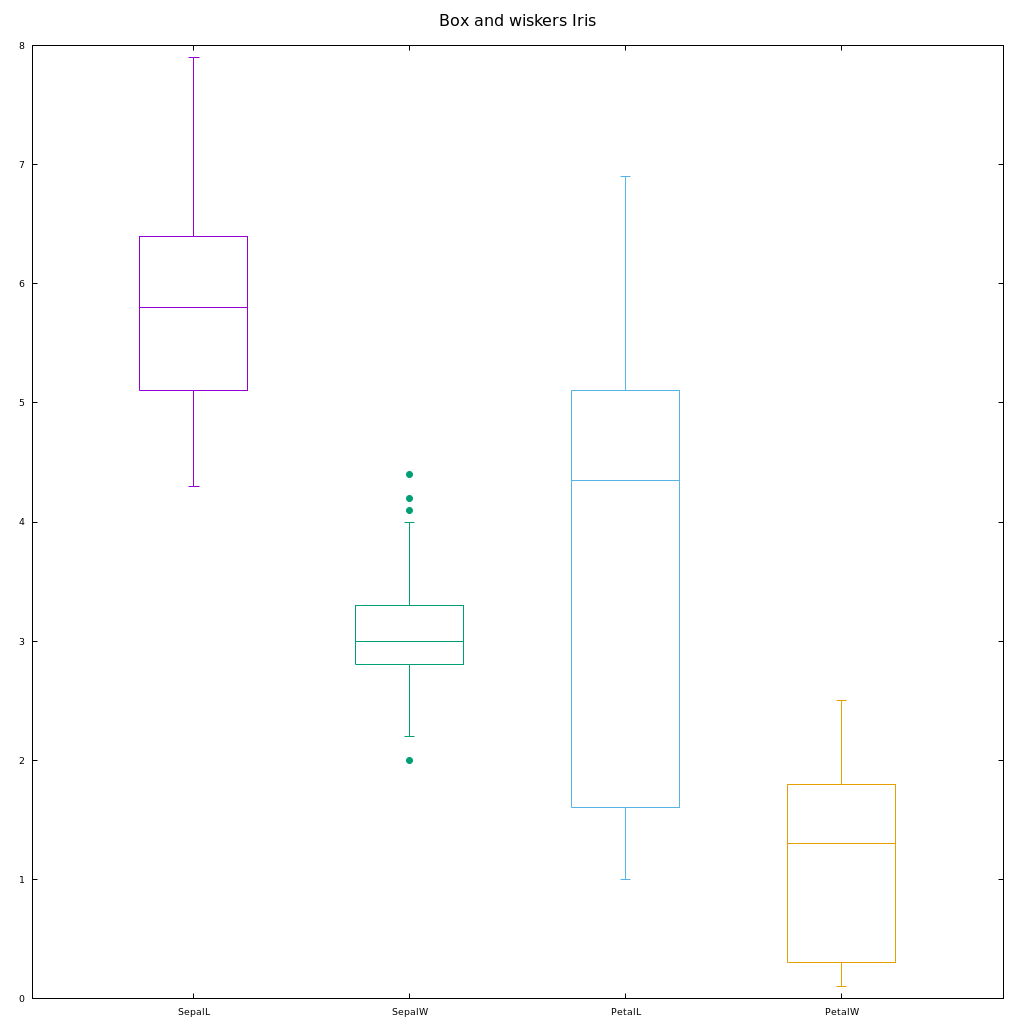
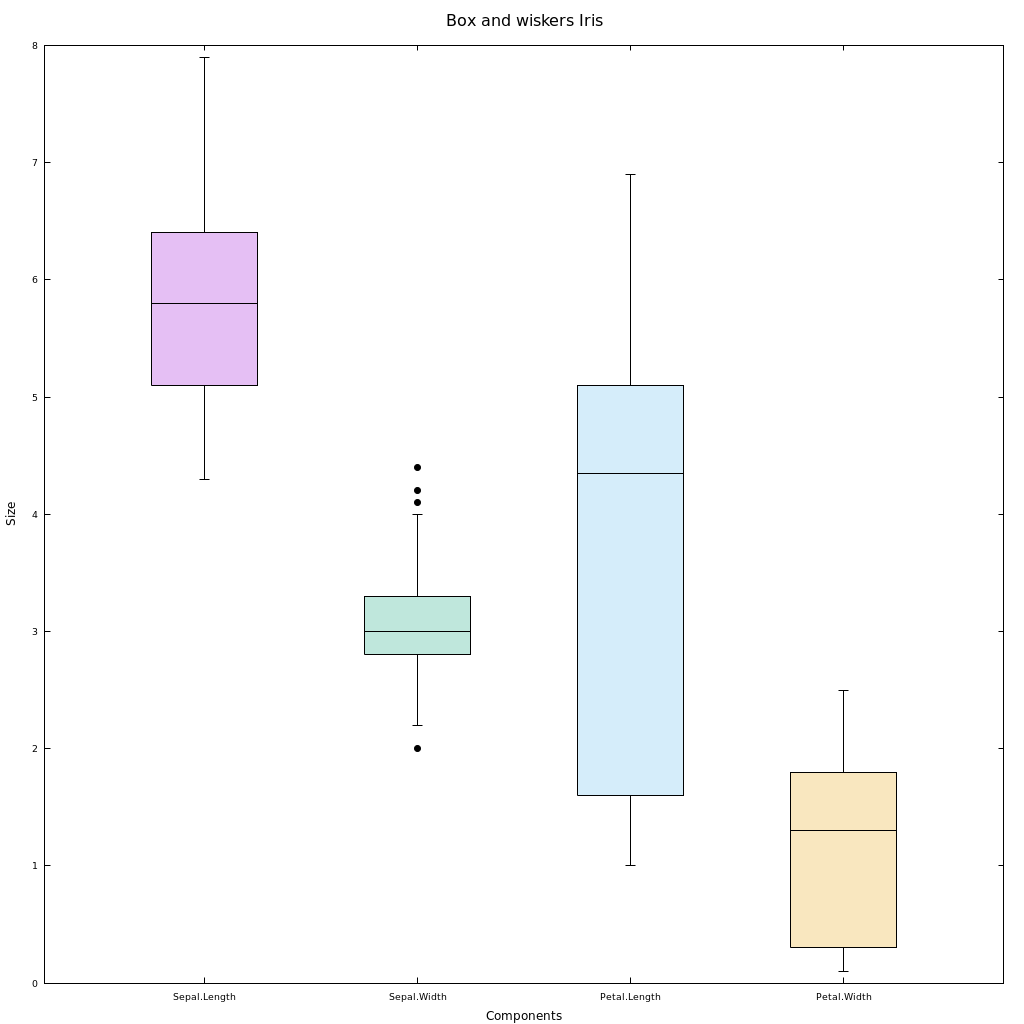
feat : Gplot drawBoxAndWiskers improvement

diff --git a/src/gplot.cpp b/src/gplot.cpp
@@ -98,15 +98,18 @@ void Gplot<T>::drawBoxAndWiskers(void)
    resetSession();
    initPng();
    setTitle();
-   gp << "file = '" << m_params.infilename << "'" << std::endl;
-   gp << "set datafile separator '" << m_params.delimiter << "'" << std::endl;
-   gp << "set key autotitle columnhead" << std::endl;
-   gp << "header = '" << m_params.legend << "' " << std::endl;
+   setAxisLabels();
+   gp << "file=" << SQ << m_params.infilename << SQ << std::endl;
+   gp << _SET << "datafile separator " << SQ << m_params.delimiter << SQ << std::endl;
+   gp << _SET << "key autotitle columnhead" << std::endl;
+   gp << "header=" << SQ << m_params.legend << SQ << std::endl;
    gp << "N = words(header)" << std::endl;
-   gp << "set xtics ('' 1)" << std::endl;
-   gp << "set for [i=1:N] xtics add (word(header, i) i)" << std::endl;
-   gp << "set style data boxplot" << std::endl;
-   gp << "unset key" << std::endl;
+   gp << _SET << "xtics ('' 1)" << std::endl;
+   gp << _SET << "for [i=1:N] xtics add (word(header, i) i)" << std::endl;
+   gp << _SET << "style fill solid 0.25 border -1" << std::endl;
+   gp << _SET << "style boxplot outliers pointtype 7" << std::endl;
+   gp << _SET << "style data boxplot" << std::endl;
+   gp << _UNSET << "key" << std::endl;
    gp << _PLOT
       << "for [i=1:N] file using (i):i"
       << std::endl;
@@ -144,7 +147,7 @@ void Gplot<T>::initPng(void)
 {
    gp << boost::format(SET_TERMINAL_PNG) % m_params.width % m_params.height << std::endl;
    gp << boost::format(SET_OUTPUT_FILENAME_FMT) % m_params.filename << std::endl;
-   gp << "unset key" << std::endl;
+   gp << _UNSET << "key" << std::endl;
    gp << UNSET_COLORBOX << std::endl;
    setDefaultFontsSizes(12, 9, 9, 7);
    setDefaultPalette();

diff --git a/src/glplotwrapper.cpp b/src/glplotwrapper.cpp
@@ -112,8 +112,7 @@ template <typename T>
 void GplotWrapper<T>::boxwiskers(
     const std::string &filename,
     const std::string &infilename,
-    const std::string &delimiter
-    )
+    const std::string &delimiter)
 {
     struct gplot_params_s<T> gparams;
     gparams.filename = filename;
@@ -121,7 +120,9 @@ void GplotWrapper<T>::boxwiskers(
     gparams.delimiter = delimiter;
     gparams.height = gparams.width = 1024;
     gparams.title = "Box and wiskers Iris";
-    gparams.legend = "SepalL SepalW PetalL PetalW";
+    gparams.xlabel = "Components";
+    gparams.ylabel = "Size";
+    gparams.legend = "Sepal.Length Sepal.Width Petal.Length Petal.Width";
     this->setParams(gparams);
     this->drawBoxAndWiskers();
 }

diff --git a/include/gplot.h b/include/gplot.h
@@ -10,14 +10,16 @@
 #include <gnuplot-iostream.h>
 #include <alglib/ap.h>
 
+#define SP " "
 #define SQ "'"
 #define SMC ";"
 #define COMA ","
-#define _PLOT "plot "
-#define _SET "set "
+#define _PLOT "plot" SP
+#define _SET "set" SP
+#define _UNSET "unset" SP
 #define EOD "EOD"
 #define DEFAULT_FONT "Verdana"
-#define _FONT_ " font "
+#define _FONT_ SP "font" SP
 // transparent
 #define SET_TERMINAL_PNG _SET "term pngcairo enhanced size %1%,%2% font 'Verdana,8'"
 #define SET_OUTPUT_FILENAME_FMT _SET "output '%1%'"

diff --git a/README.md b/README.md
@@ -53,6 +53,7 @@ So method to use will depend on the nature of your dataset.
 * Scatter
 * Correlation circle
 * Heatmap correlation
+* Dataset boxes and wiskers ( [What does a box plot tell you?](https://www.simplypsychology.org/boxplots.html) )
 
 ## References
 
